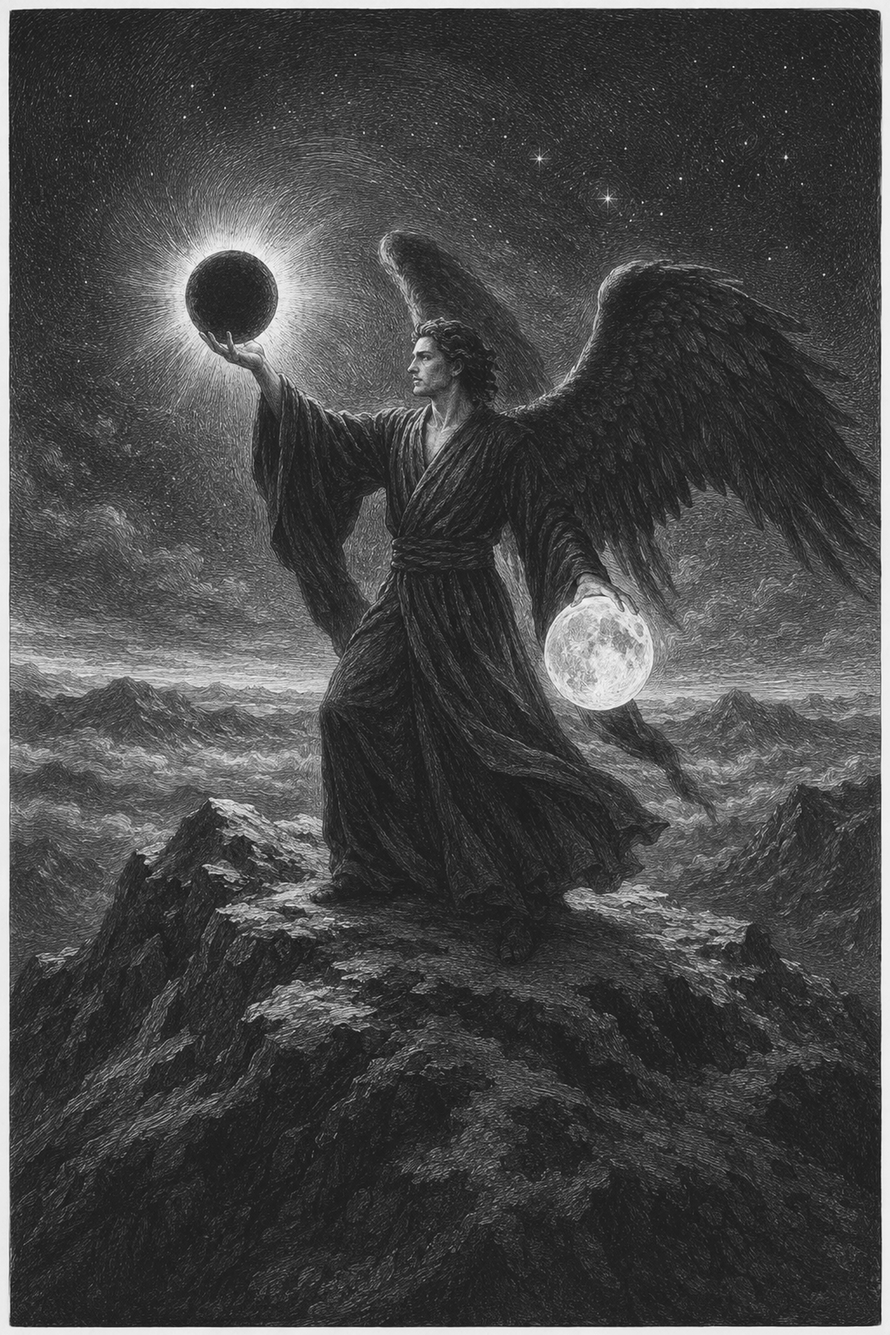
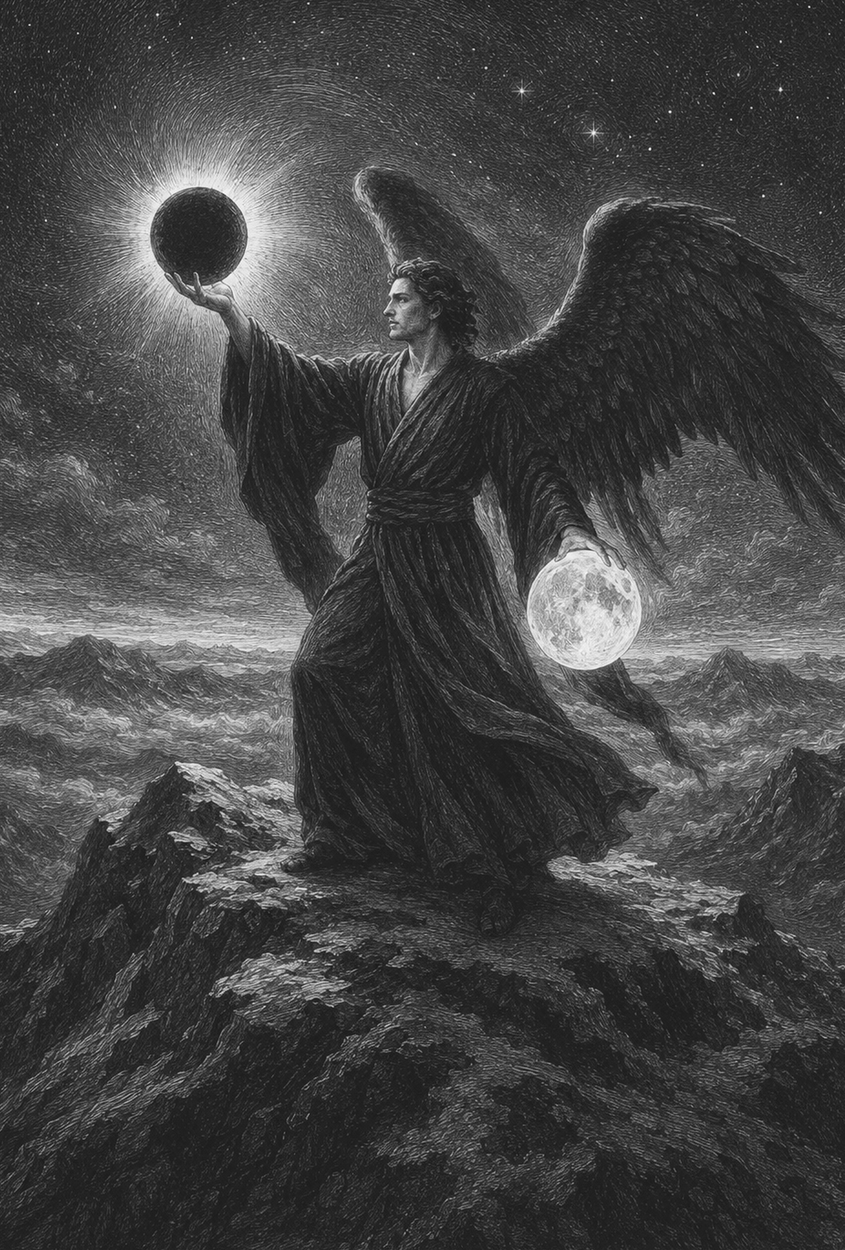
TTT plate review pass: author verdicts applied (five plates changed)
- 07x lucifer: master zoomed 5% (white rim removed); print twin re-cut at
  the series bleed crop; redundant inline figure removed from the chapter
- 09 watchman: crescent -> full moon (masked AI patch) — the full moon is
  the sign the book argues; rod now points at it
- 10 sabbath frieze: third quarter now fully dark (programmatic mirror
  patch; AI edit rejected — redrew five moons)
- 14 passion week: tomb concept retired (ch. 14 argues heart of the earth
  = Jerusalem, not the grave); new plate: Jesus before Pilate, face
  hidden; caption PILATE WASHES HIS HANDS | MATTHEW 27:24
- 11 day of saturn: Stephen before the council under the six-pointed star
  replaces the sky-star plate; caption THE STAR OF YOUR GOD | ACTS 7:43
- 15x2 plaque dated per the book's conclusion: HEROD CROWNED KING OF
  JUDEA, 39 BC
- Verified: 432 pp, all 26 openers recto with image-only plate versos

diff --git a/books/time-tested-tradition/print/extension.rb b/books/time-tested-tradition/print/extension.rb
@@ -1092,10 +1092,10 @@ class TradePdfConverter < Asciidoctor::PDF::Converter
     'when-does-the-year-start' => 'images/print/08-abib-sheaf.jpg',
     'how-to-observe-the-signs' => 'images/print/09-watchman-tower.jpg',
     'when-is-the-sabbath' => 'images/print/10-sabbath-quarters.jpg',
-    'the-day-of-saturn' => 'images/print/11-star-of-saturn.jpg',
+    'the-day-of-saturn' => 'images/print/11-star-court.jpg',
     '32-ad-resurrection' => 'images/print/12-darkness-at-noon.jpg',
     'herod-the-great' => 'images/print/13-herods-eclipse.jpg',
-    'passion-week' => 'images/print/14-three-nights.jpg',
+    'passion-week' => 'images/print/14-before-pilate.jpg',
     'solar-only-calendars' => 'images/print/15-backs-to-the-temple.jpg',
     'herod-regal-vs-defacto' => 'images/print/15x1-two-reckonings.jpg',
     'herods-appointment-and-battle-of-actium' => 'images/print/15x2-crowned-in-rome.jpg',

diff --git a/books/time-tested-tradition/plate-descriptions.md b/books/time-tested-tradition/plate-descriptions.md
@@ -47,9 +47,9 @@ A black-and-white etching in the style of Rembrandt — fine cross-hatched line 
 
 A black-and-white etching in the style of Rembrandt — fine cross-hatched line work, drypoint burr, dramatic chiaroscuro, aged copper-plate character; pure black ink on white paper, line work only, no gray washes. A family at rest beneath a broad fig tree outside their stone house — father, mother, children seated, tools laid down and a plough standing idle. Across the top of the plate runs a narrow horizontal frieze band divided by thin rules into exactly four square panels, left to right, each panel holding one moon: panel one a full round moon, panel two a right half-moon, panel three a thin dark sliver, panel four a left half-moon. Four panels, four moons, no more. ANATOMY: every figure has exactly two arms. Stippled sky gradations, plate-tone vignette at the edges, high contrast, pure black line art. Portrait orientation, roughly 2:3. The image contains absolutely no text, lettering, numbers, inscriptions, or watermarks of any kind.
 
-- **11-star-of-saturn** — FULL PROMPT (overnight run 2026-07-13):
+- **11-star-court** — FULL PROMPT (author-directed variation 2026-07-13, replaced 11-star-of-saturn; author approved):
 
-A black-and-white etching in the style of Rembrandt — fine cross-hatched line work, drypoint burr, dramatic chiaroscuro, aged copper-plate character; pure black ink on white paper, line work only, no gray washes. A Roman street shrine set into a stone wall: above a hooded, scythe-bearing idol of Saturn is carved a star of exactly six points, cut deep into the stone. The market crowd streams past beneath it, heads down, baskets and bundles in hand — not one face lifted toward the star. ANATOMY: every figure has exactly two arms; the star has exactly six points. Stippled sky gradations, plate-tone vignette at the edges, high contrast, pure black line art. Portrait orientation, roughly 2:3. The image contains absolutely no text, lettering, numbers, inscriptions, or watermarks of any kind.
+A black-and-white etching in the style of Rembrandt — fine cross-hatched line work, drypoint burr, dramatic chiaroscuro, aged copper-plate character; pure black ink on white paper, line work only, no gray washes. The trial of Stephen in an ancient stone council chamber. Stephen stands alone in the foreground, face lifted and lit from above, one arm raised toward a large six-pointed star emblem carved into the wall above the council; behind and around him a semicircle of seated elders and Pharisees in rich robes and head coverings, some rising in anger, one covering his ears. Six-pointed star ornaments repeat in the chamber's carved decorations and hanging lamps. ANATOMY: every figure has exactly two arms; the star emblems have exactly six points. Stippled gradations, plate-tone vignette at the edges, high contrast, pure black line art. Portrait orientation, roughly 2:3. The image contains absolutely no text, lettering, numbers, inscriptions, or watermarks of any kind.
 
 - **12-darkness-at-noon** — FULL PROMPT (pilot 2026-07-13):
 
@@ -59,9 +59,9 @@ A black-and-white etching in the style of Rembrandt — fine cross-hatched line 
 
 A black-and-white etching in the style of Rembrandt — fine cross-hatched line work, drypoint burr, dramatic chiaroscuro, aged copper-plate character; pure black ink on white paper, line work only, no gray washes. A palace chamber at night seen from within: an old king slumped in his great chair in deep shadow, physicians' vessels beside him. Through the tall window behind him, over the courtyard, the moon hangs half-swallowed by the earth's shadow — one edge bright, the rest a dim copper dark — and small guards in the courtyard below look up at it. ANATOMY: every figure has exactly two arms. Stippled sky gradations, plate-tone vignette at the edges, high contrast, pure black line art. Portrait orientation, roughly 2:3. The image contains absolutely no text, lettering, numbers, inscriptions, or watermarks of any kind.
 
-- **14-three-nights** — FULL PROMPT (overnight run 2026-07-13):
+- **14-before-pilate** — FULL PROMPT (author-directed 2026-07-13, replaced the tomb concept — ch. 14 argues the heart of the earth is Jerusalem, not the grave, so a tomb plate asserted the reading the chapter refutes; author approved):
 
-A black-and-white etching in the style of Rembrandt — fine cross-hatched line work, drypoint burr, dramatic chiaroscuro, aged copper-plate character; pure black ink on white paper, line work only, no gray washes. A rock-cut tomb in a garden, its doorway completely shut: the great round disc-stone stands upright in the doorway groove, filling the whole opening edge to edge — solid stone where the door would be, no gap and no dark opening anywhere. Above the shut tomb the sky fills the plate in three vertical passages side by side, left to right: the last amber of dusk, deep night with the stars drawn as long wheeling arcs around the pole, and the pale grey before dawn. The tomb sits sealed and unchanged beneath all three skies. ANATOMY: no figures. Stippled sky gradations, plate-tone vignette at the edges, high contrast, pure black line art. Portrait orientation, roughly 2:3. The image contains absolutely no text, lettering, numbers, inscriptions, or watermarks of any kind.
+A black-and-white etching in the style of Rembrandt — fine cross-hatched line work, drypoint burr, dramatic chiaroscuro, aged copper-plate character; pure black ink on white paper, line work only, no gray washes. Jesus before Pilate at the judgment seat. The bound prisoner stands in the near foreground seen entirely from behind — only His back, bound hands, and hair visible, His face completely hidden from the viewer — facing Pilate, who sits elevated on a stone tribunal washing his hands over a basin held by a servant. Roman soldiers with spears flank the tribunal; at the sides a crowd of priests and people surge with pointing arms and open mouths, crying out. ANATOMY: every figure has exactly two arms; the prisoner's face is never visible. Stippled gradations, plate-tone vignette at the edges, high contrast, pure black line art. Portrait orientation, roughly 2:3. The image contains absolutely no text, lettering, numbers, inscriptions, or watermarks of any kind.
 
 - **15-backs-to-the-temple** — FULL PROMPT (pilot 2026-07-13):
 

diff --git a/books/time-tested-tradition/plate-captions.md b/books/time-tested-tradition/plate-captions.md
@@ -23,13 +23,13 @@ no plates; About the Author carries the unplaqued portrait.
 | 08-abib-sheaf | THE MONTH OF THE ABIB | EXODUS 13:4 |
 | 09-watchman-tower | SIGNS READ FROM THE TOWER | GENESIS 1:14 |
 | 10-sabbath-quarters | A SIGN BETWEEN ME AND YOU | EXODUS 31:13 |
-| 11-star-of-saturn | THE STAR OF YOUR GOD | AMOS 5:26 |
+| 11-star-court | THE STAR OF YOUR GOD | ACTS 7:43 |
 | 12-darkness-at-noon | DARKNESS OVER THE LAND AT NOON | AMOS 8:9 |
 | 13-herods-eclipse | THE ECLIPSE BEFORE HEROD DIED | JOSEPHUS, ANTIQUITIES 17.6.4 |
-| 14-three-nights | THREE DAYS AND THREE NIGHTS | MATTHEW 12:40 |
+| 14-before-pilate | PILATE WASHES HIS HANDS | MATTHEW 27:24 |
 | 15-backs-to-the-temple | BACKS TO THE TEMPLE, FACES EASTWARD | EZEKIEL 8:16 |
 | 15x1-two-reckonings | TWO RECKONINGS OF ONE REIGN | JOSEPHUS, ANTIQUITIES |
-| 15x2-crowned-in-rome | CROWNED KING OF JUDEA IN ROME | JOSEPHUS, ANTIQUITIES 14.14 |
+| 15x2-crowned-in-rome | HEROD CROWNED KING OF JUDEA, 39 BC | JOSEPHUS, ANTIQUITIES 14.14 |
 | 15x4-steadfast-heavens | THE ORDINANCES OF THE MOON AND STARS | JEREMIAH 31:35 |
 | 16-thief-beside-him | REMEMBER ME IN YOUR KINGDOM | LUKE 23:42 |
 | 17-taught-at-the-door | TEACH THEM DILIGENTLY UNTO THY CHILDREN | DEUTERONOMY 6:7 |
